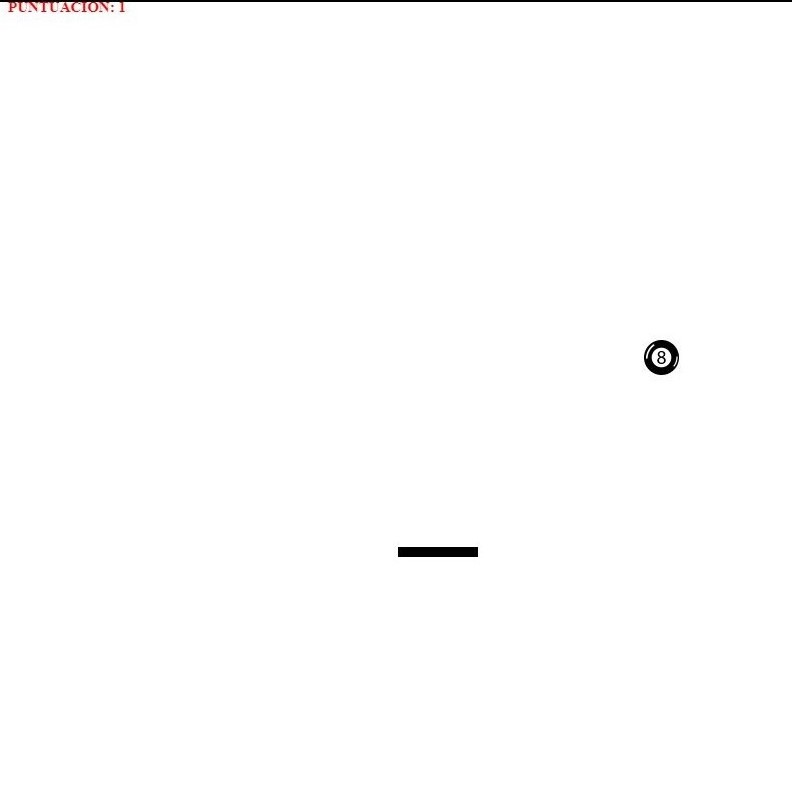
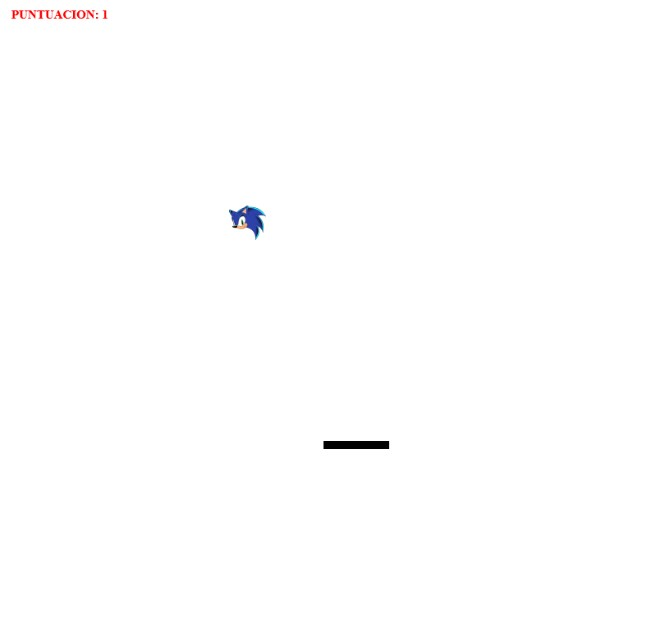
sync

diff --git a/Proyecto_Juego/src/JS/bolas.js b/Proyecto_Juego/src/JS/bolas.js
@@ -9,16 +9,16 @@ var bolax1 = 300;
 var bolay1 = 0;
 var ancho, alto;
 var limiteder, limiteizq, limiteup, limitedown;
-var dx = 6;
-var dy = 6;
-var dx1 = 3;
+var dx = 9;
+var dy = 5;
+var dx1 = 8;
 var dy1 = 4;
 let puntoDeColision = radio;
 window.onload = function () {
 
     canvas = document.getElementById('canvas1');
-    bola.src = '../media/bola.png';
-    bola1.src = '../media/bola.png';
+    bola.src = '../media/sonic-logo.png';
+    bola1.src = '../media/sonic-logo.png';
     if (canvas && canvas.getContext) {
         ctx = canvas.getContext('2d');
         if (ctx) {

diff --git a/Proyecto_Juego/src/JS/matabichos.js b/Proyecto_Juego/src/JS/matabichos.js
@@ -9,7 +9,7 @@ var temporizadorInterval;
 window.onload = function () {
 
     canvas = document.getElementById('canvas1');
-    bicho.src = '../media/werlyb.jpg';
+    bicho.src = '../media/sonic.jpg';
     if (canvas && canvas.getContext) {
         ctx = canvas.getContext('2d');
         if (ctx) {
@@ -52,6 +52,12 @@ function getRandomNumber(min, max) {
 
 
 function dibujaBicho(x, y) {
+    if (x + bicho.width > ancho) {
+        x = ancho - bicho.width;
+    }
+    if (y + bicho.height > alto) {
+        y = alto - bicho.height;
+    }
     ctx.drawImage(bicho, x, y);
 }
 

diff --git a/Proyecto_Juego/src/html/circunferencia.html b/Proyecto_Juego/src/html/circunferencia.html
@@ -35,7 +35,7 @@
                     Tu navegador no soporta canvas
                 </canvas>
                 <br>
-            <input type="range" id="speedRange" min="0" max="1000">
+            <input type="range" id="speedRange" max="10">
         </div>
         <div class="return">
             <a href="../html/home.html"><i class="fa-solid fa-rotate-left fa-2xl" style="color:rgb(255, 255, 255)"></i></a>

diff --git a/Proyecto_Juego/src/JS/circunferencia.js b/Proyecto_Juego/src/JS/circunferencia.js
@@ -3,7 +3,7 @@ var canvas;
 var angulo = 0
 var speed = 4;
 const imagenBola = new Image();
-imagenBola.src = '../media/LOL_logo.png';
+imagenBola.src = '../media/knuckles_head_logo_by_officialsassy_ddu4sg2-fullview.png';
 window.onload = function () {
      canvas = document.getElementById("canvas1");
     if (canvas && canvas.getContext) {

diff --git a/Proyecto_Juego/src/JS/butan.js b/Proyecto_Juego/src/JS/butan.js
@@ -14,7 +14,7 @@ var puntos = 0;
 window.onload = function () {
 
     canvas = document.getElementById('canvas1');
-    bola.src = '../media/bola.png';
+    bola.src = '../media/sonic-logo.png';
     if (canvas && canvas.getContext) {
         ctx = canvas.getContext('2d');
         if (ctx) {

diff --git a/Proyecto_Juego/src/JS/tanque.js b/Proyecto_Juego/src/JS/tanque.js
@@ -16,7 +16,7 @@ const Bicho = {
 
 window.onload = () => {
   canvas = document.getElementById("canvas1")
-  Bicho.img.src = '../media/werlyb.jpg'
+  Bicho.img.src = '../media/sonic.jpg'
   if (canvas && canvas.getContext) {
     ctx = canvas.getContext("2d")
     animate()
